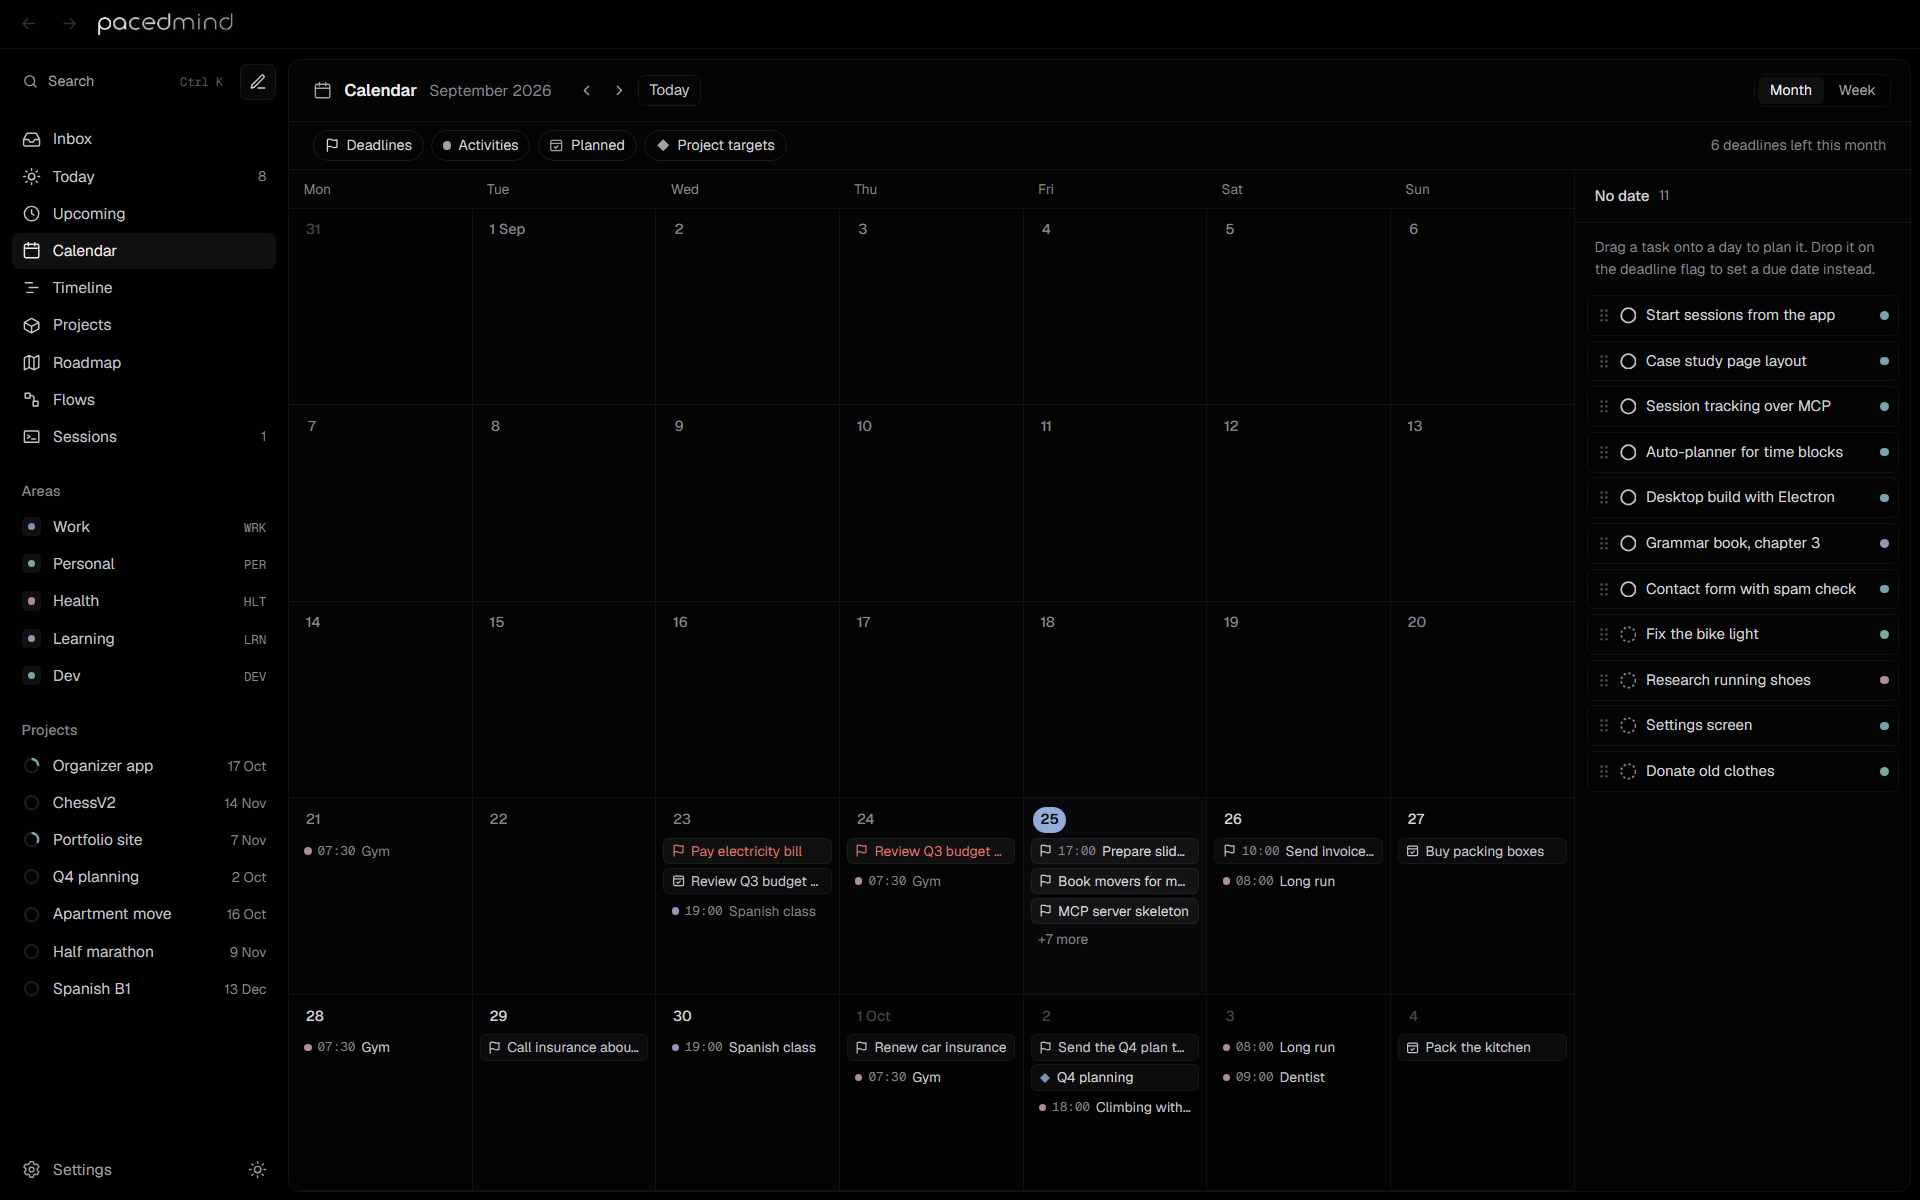
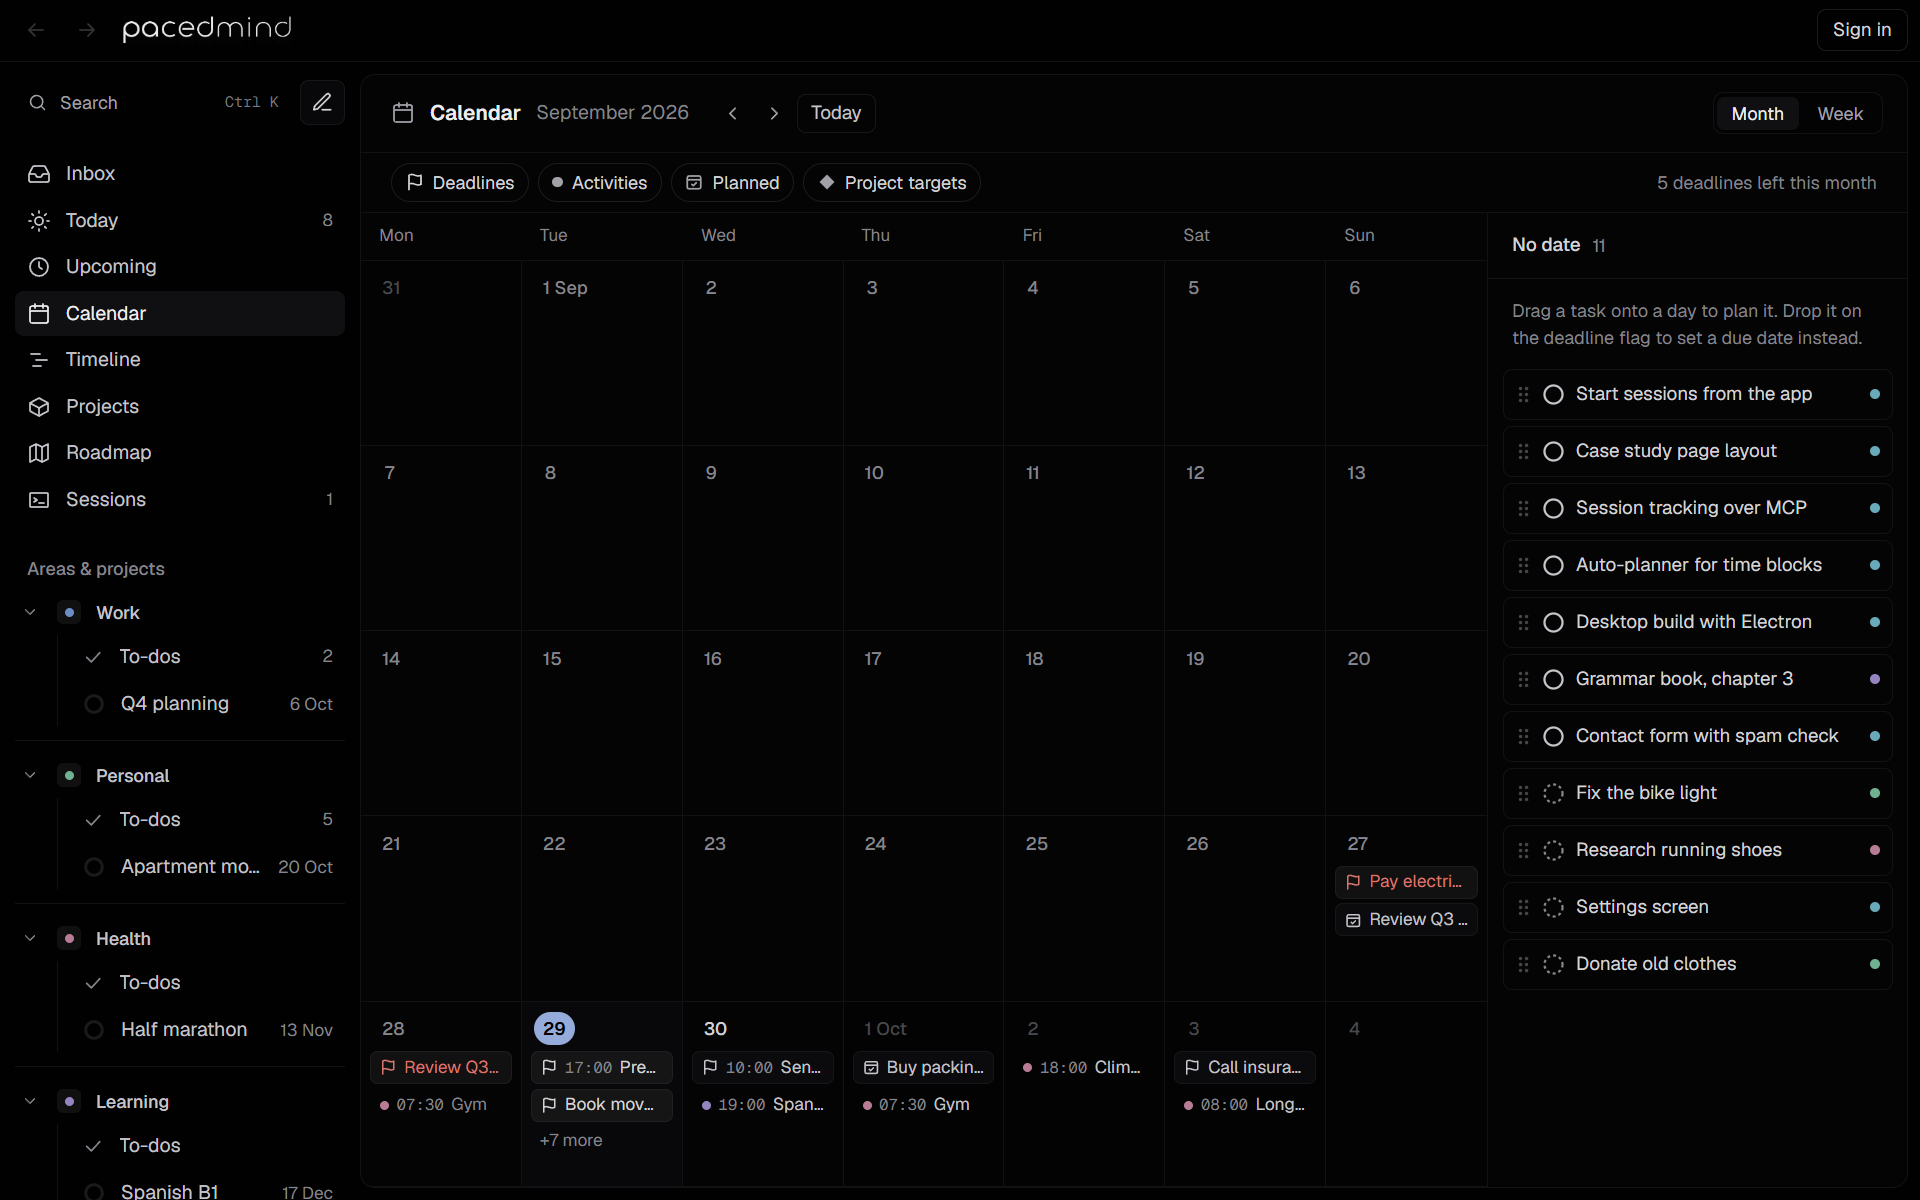
Docs: new screenshots, How you work's, and connecting Cursor, VS Code, Claude and ChatGPT
All screenshots retaken with npm run screenshots (the task details now show Start with Claude Code, and Projects is 1920 by 1200 like the rest). Connect to PacedMind Cloud points to pacedmind.com/connect, has the steps for Cursor and VS Code (their install links and mcp.json) and for Claude and ChatGPT, and says a new account comes back to the Allow page.

diff --git a/docs/AGENTS.md b/docs/AGENTS.md
@@ -65,14 +65,14 @@ npm run build                                                    # catches both
 - **Vendor names** behind the product (hosting, databases, services). Claude Code, Codex, Windows Terminal and the MCP standard are part of the product and may be named.
 - **Roadmap dates**, and features that aren't in the code.
 - **Internal architecture** beyond what users need: file locations and the local server's address are in, implementation details are out.
-- **Personal data**: screenshots come from the development server's sample data, with the folder paths replaced.
+- **Personal data**: screenshots come from the development server's sample data, taken by `npm run screenshots`, which shows nothing of the computer that takes them.
 
 ---
 
 ## 6. When the app changes
 
 - A new or renamed **MCP tool**: update `mcp/tools/*.mdx`, the tool table in `mcp/index.mdx` and `mcp/tools/index.mdx`, and the list of tools allowed without asking in `agents/start-and-manage.mdx` when `AGENT_ALLOWED_TOOLS` changes.
-- A new **view** or a changed sidebar: `views/`, `getting-started/first-launch.mdx`, `views/index.mdx`, and the screenshots.
+- A new **view** or a changed sidebar: `views/`, `getting-started/first-launch.mdx`, `views/index.mdx`, and the screenshots (`npm run screenshots -- docs` in the repository's root takes them all again).
 - New **keyboard shortcuts**: `keyboard-shortcuts/index.mdx`.
 - **Settings**: `settings/index.mdx`.
 - Anything in the **desktop app** (tray, notifications, install): `desktop-app/index.mdx`, `getting-started/`.

diff --git a/docs/README.md b/docs/README.md
@@ -94,7 +94,7 @@ The Polish pages are then published under `/docs/pl/...`, with `hreflang` altern
 
 ## Screenshots
 
-`public/screenshots/` holds screenshots of the app's views, taken from the development server (`npm run dev` in the repository root) with its sample data, in the dark theme, at 1920 × 1200. Before taking new ones, replace the sample data's folder paths, which contain the local user name. Pages embed them with a plain `<img>` and the `/docs` prefix, as Next's image optimizer isn't available in a static export.
+`public/screenshots/` holds screenshots of the app's views, from the development server's sample data, in the dark theme, at 1920 × 1200. `npm run screenshots -- docs` in the repository root takes them all again: it runs a development server of its own with an empty home folder, so no folder, session or setting of this computer shows, and its clock reads 10:40 today. A new screenshot goes into its list in `scripts/screenshots.mjs`. Pages embed them with a plain `<img>` and the `/docs` prefix, as Next's image optimizer isn't available in a static export.
 
 ## GitHub links
 
